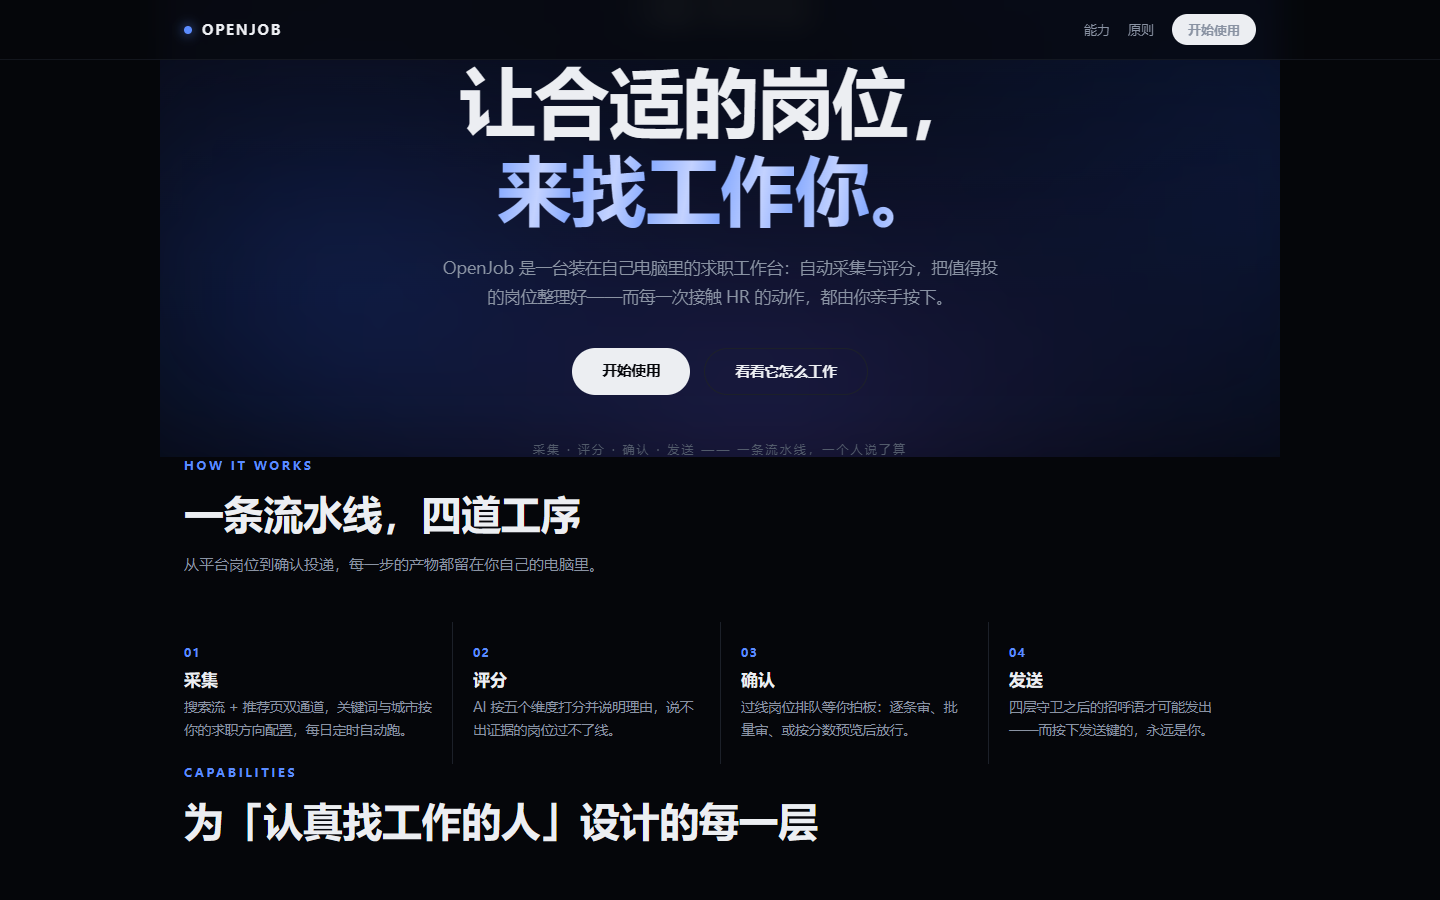
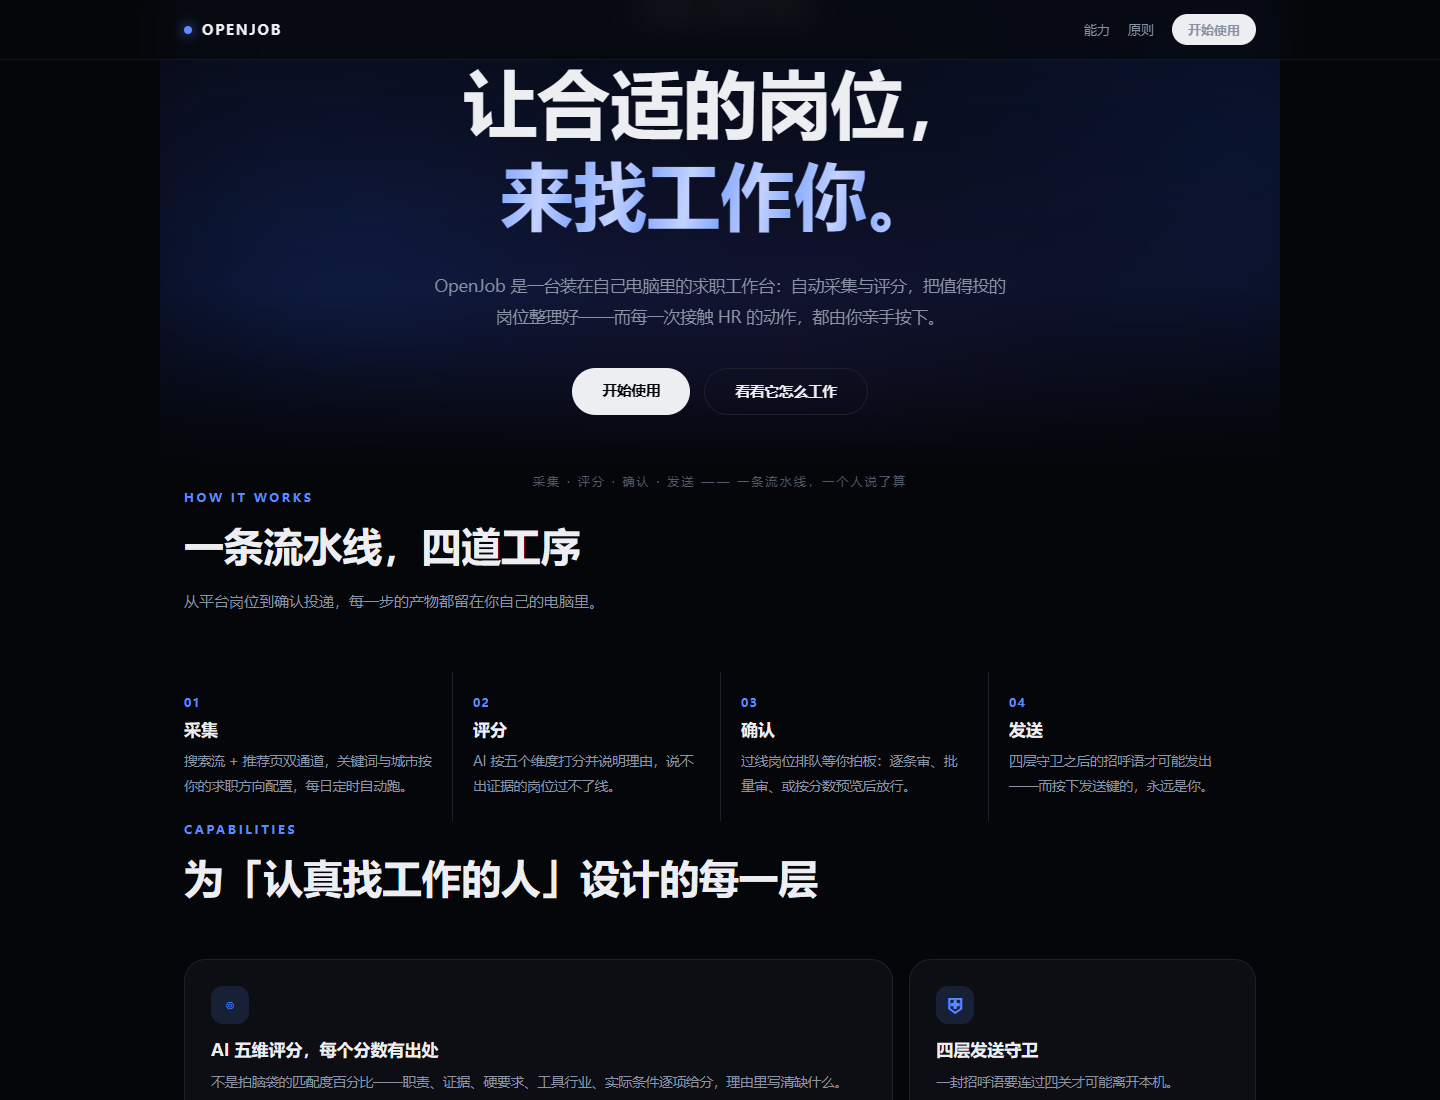
fix(landing): hero-to-black transition + relaxed typography
- hero 底部 200px 渐隐层：蓝光溶入纯黑，消除与下段的硬分界
- 光晕中心上移收弱（radial 覆盖范围收敛）
- 排版放松：h1 行距 1.16→1.24、副标/段落行高 1.85-1.9、区块间距 96→118、
  bento gap 14→16、flow 间距 44→56

diff --git a/landing/index.html b/landing/index.html
@@ -39,11 +39,20 @@
   .cta-mini:hover { transform: scale(1.04); }
 
   header {
-    position: relative; padding: 168px 0 120px; text-align: center; overflow: hidden;
+    position: relative; padding: 176px 0 150px; text-align: center; overflow: hidden;
     background:
-      radial-gradient(1000px 520px at 72% -12%, rgba(30,64,160,.34), transparent 70%),
-      radial-gradient(760px 420px at 12% 8%, rgba(70,60,150,.20), transparent 70%);
+      radial-gradient(1000px 520px at 72% -20%, rgba(30,64,160,.30), transparent 66%),
+      radial-gradient(760px 420px at 12% 0%, rgba(70,60,150,.18), transparent 66%);
   }
+  /* 底部渐隐：光晕溶入纯黑，与下一段自然衔接 */
+  header::after {
+    content: ""; position: absolute; left: 0; right: 0; bottom: 0; height: 200px;
+    background: linear-gradient(to bottom, transparent, var(--bg) 88%);
+    pointer-events: none;
+  }
+  header > * { position: relative; z-index: 1; }
+  header::after { z-index: 0; }
+  #aurora { z-index: 0; }
   #aurora { position: absolute; inset: -10%; width: 120%; height: 120%; filter: blur(70px) saturate(1.1); opacity: .8; }
   .hero-badge {
     position: relative; display: inline-flex; align-items: center; gap: 8px;
@@ -53,14 +62,14 @@
   .hero-badge b { color: var(--primary); font-weight: 600; }
   h1 {
     position: relative; margin-top: 26px;
-    font-size: clamp(40px, 8vw, 76px); font-weight: 800; letter-spacing: -.02em; line-height: 1.16;
+    font-size: clamp(40px, 8vw, 74px); font-weight: 800; letter-spacing: -.008em; line-height: 1.24;
   }
   h1 .l { display: inline-block; opacity: 0; transform: translateY(.55em); animation: l-in 700ms var(--ease) forwards; }
   h1 .accent { background: linear-gradient(100deg, #7ea4ff, #c3d2ff 55%, #7ea4ff); -webkit-background-clip: text; background-clip: text; color: transparent; }
   @keyframes l-in { to { opacity: 1; transform: none; } }
   .hero-sub {
-    position: relative; margin: 22px auto 0; max-width: 560px;
-    color: var(--muted); font-size: 16.5px; line-height: 1.75;
+    position: relative; margin: 30px auto 0; max-width: 580px;
+    color: var(--muted); font-size: 16.5px; line-height: 1.9;
     opacity: 0; animation: fade-up 700ms var(--ease) 850ms forwards;
   }
   .hero-cta {
@@ -76,21 +85,21 @@
   .cta-ghost { border: 1px solid var(--border); color: var(--text); }
   .cta-ghost:hover { border-color: var(--primary); color: var(--primary); transform: translateY(-2px); }
   @keyframes fade-up { from { opacity: 0; transform: translateY(16px); } to { opacity: 1; transform: none; } }
-  .hero-meta { position: relative; margin-top: 46px; color: #525b6b; font-size: 12px; letter-spacing: .18em; }
+  .hero-meta { position: relative; margin-top: 58px; color: #525b6b; font-size: 12px; letter-spacing: .18em; }
 
-  section { padding: 96px 0; }
+  section { padding: 118px 0; }
   .kicker { font-size: 12px; font-weight: 700; letter-spacing: .22em; color: var(--primary); text-transform: uppercase; }
   h2 { margin-top: 14px; font-size: clamp(26px, 4vw, 40px); font-weight: 750; letter-spacing: -.01em; }
-  .sec-sub { margin-top: 12px; color: var(--muted); font-size: 15px; max-width: 620px; line-height: 1.8; }
+  .sec-sub { margin-top: 16px; color: var(--muted); font-size: 15px; max-width: 620px; line-height: 1.9; }
 
-  .flow { display: flex; align-items: stretch; gap: 0; margin-top: 44px; flex-wrap: wrap; }
+  .flow { display: flex; align-items: stretch; gap: 0; margin-top: 56px; flex-wrap: wrap; }
   .flow-step { flex: 1 1 180px; position: relative; padding: 22px 20px 22px 0; }
   .flow-step + .flow-step { padding-left: 20px; border-left: 1px solid var(--border); }
   .flow-step .no { font-size: 12px; color: var(--primary); font-weight: 700; letter-spacing: .1em; }
   .flow-step h3 { margin-top: 8px; font-size: 17px; }
-  .flow-step p { margin-top: 6px; color: var(--muted); font-size: 13.5px; line-height: 1.7; }
+  .flow-step p { margin-top: 9px; color: var(--muted); font-size: 13.5px; line-height: 1.85; }
 
-  .bento { display: grid; grid-template-columns: repeat(6, 1fr); gap: 14px; margin-top: 48px; }
+  .bento { display: grid; grid-template-columns: repeat(6, 1fr); gap: 16px; margin-top: 56px; }
   .cell {
     position: relative; overflow: hidden;
     background: var(--card); border: 1px solid var(--border); border-radius: 22px; padding: 26px;
@@ -106,7 +115,7 @@
   .c4 { grid-column: span 4; } .c3 { grid-column: span 3; } .c2 { grid-column: span 2; }
   @media (max-width: 860px) { .c4, .c3, .c2 { grid-column: span 6; } }
   .cell h3 { font-size: 17px; margin-top: 14px; }
-  .cell p { margin-top: 8px; color: var(--muted); font-size: 13.5px; line-height: 1.75; }
+  .cell p { margin-top: 10px; color: var(--muted); font-size: 13.5px; line-height: 1.85; }
   .cell .ico {
     width: 38px; height: 38px; border-radius: 12px; display: flex; align-items: center; justify-content: center;
     background: var(--primary-soft); color: var(--primary); font-size: 17px; font-weight: 700;
